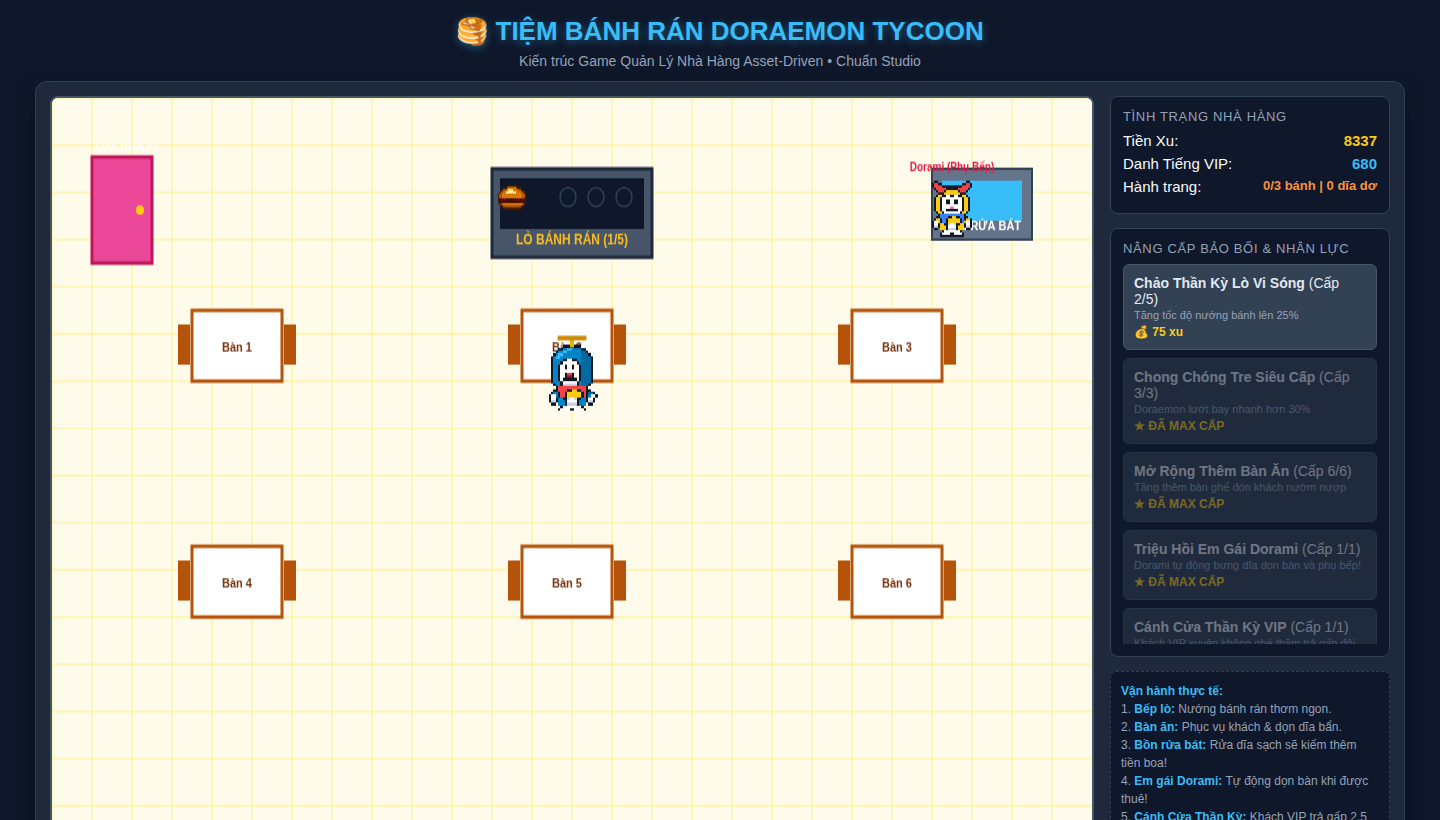
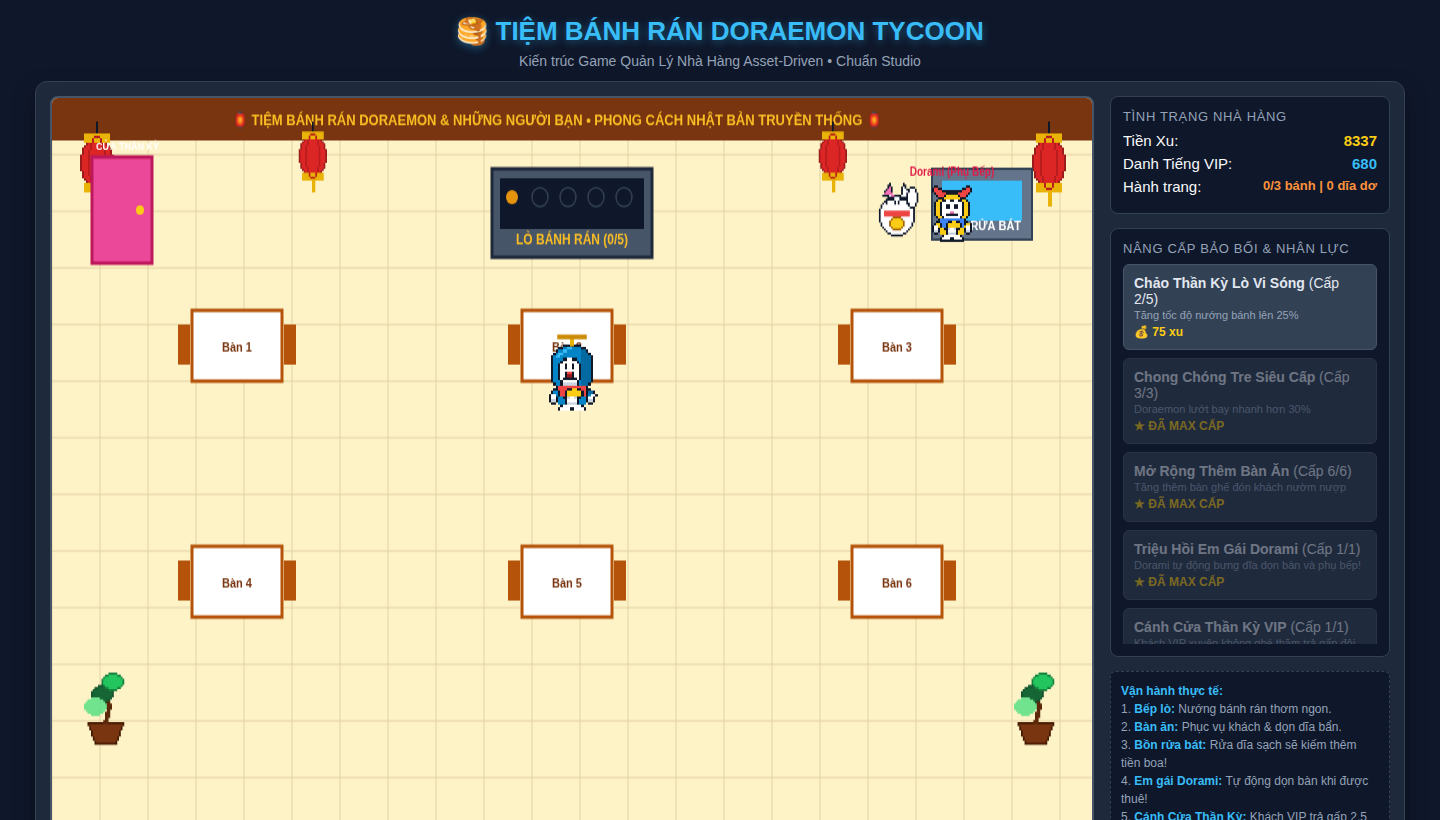
feat: add warm Japanese restaurant decor with wood header, lanterns, bonsai plants and lucky cat

diff --git a/js/game.js b/js/game.js
@@ -225,24 +225,53 @@ class Game {
   render() {
     this.ctx.clearRect(0, 0, this.canvas.width, this.canvas.height);
 
-    // Nền sàn gỗ nhà hàng cao cấp
-    this.ctx.fillStyle = "#fffbeb";
+    // Nền sàn gỗ ấm cúng phong cách tiệm Nhật truyền thống (Tatami Wood Flooring)
+    this.ctx.fillStyle = "#fef3c7";
     this.ctx.fillRect(0, 0, this.canvas.width, this.canvas.height);
 
-    // Kẻ vạch ô gạch Nhật Bản
-    this.ctx.strokeStyle = "#fef08a";
+    // Kẻ chỉ thảm Tatami / Gỗ cao cấp
+    this.ctx.strokeStyle = "#e2d2a4";
     this.ctx.lineWidth = 1;
-    for (let x = 0; x < this.canvas.width; x += 40) {
+    for (let x = 0; x < this.canvas.width; x += 48) {
       this.ctx.beginPath();
       this.ctx.moveTo(x, 0);
       this.ctx.lineTo(x, this.canvas.height);
       this.ctx.stroke();
     }
-    for (let y = 0; y < this.canvas.height; y += 40) {
+    for (let y = 0; y < this.canvas.height; y += 48) {
       this.ctx.beginPath();
       this.ctx.moveTo(0, y);
       this.ctx.lineTo(this.canvas.width, y);
       this.ctx.stroke();
+    }
+
+    // Tường ốp gỗ trên cùng
+    this.ctx.fillStyle = "#78350f";
+    this.ctx.fillRect(0, 0, this.canvas.width, 36);
+    this.ctx.fillStyle = "#fbbf24";
+    this.ctx.font = "bold 13px sans-serif";
+    this.ctx.fillText("🏮 TIỆM BÁNH RÁN DORAEMON & NHỮNG NGƯỜI BẠN • PHONG CÁCH NHẬT BẢN TRUYỀN THỐNG 🏮", 180, 23);
+
+    // ĐÈN LỒNG ĐỎ TREO 2 BÊN TƯỜNG (Lantern decor)
+    if (window.assetLoader.hasImage('decor_lantern')) {
+      const lantern = window.assetLoader.getImage('decor_lantern');
+      this.ctx.drawImage(lantern, 20, 20, 48, 72);
+      this.ctx.drawImage(lantern, this.canvas.width - 68, 20, 48, 72);
+      this.ctx.drawImage(lantern, 240, 20, 40, 60);
+      this.ctx.drawImage(lantern, this.canvas.width - 280, 20, 40, 60);
+    }
+
+    // CHẬU CÂY BONSAI TRANG TRÍ (Decor plants ở 2 góc tiệm)
+    if (window.assetLoader.hasImage('decor_bonsai')) {
+      const bonsai = window.assetLoader.getImage('decor_bonsai');
+      this.ctx.drawImage(bonsai, 25, 480, 56, 70);
+      this.ctx.drawImage(bonsai, this.canvas.width - 85, 480, 56, 70);
+    }
+
+    // MÈO THẦN TÀI MANEKI-NEKO TRÊN QUẦY THU NGÂN / BỒN
+    if (window.assetLoader.hasImage('decor_lucky_cat')) {
+      const cat = window.assetLoader.getImage('decor_lucky_cat');
+      this.ctx.drawImage(cat, 820, 65, 48, 54);
     }
 
     // Cánh Cửa Thần Kỳ VIP (Nếu có nâng cấp)

diff --git a/js/assetLoader.js b/js/assetLoader.js
@@ -26,6 +26,9 @@ class AssetLoader {
     this.loadImage('dorami', 'assets/sprites/dorami.png');
     this.loadImage('dorayaki', 'assets/sprites/dorayaki.png');
     this.loadImage('dirty_dish', 'assets/sprites/dirty_dish.png');
+    this.loadImage('decor_bonsai', 'assets/sprites/decor_bonsai.png');
+    this.loadImage('decor_lantern', 'assets/sprites/decor_lantern.png');
+    this.loadImage('decor_lucky_cat', 'assets/sprites/decor_lucky_cat.png');
     this.loadImage('customer_1', 'assets/sprites/customer_1.png');
     this.loadImage('customer_2', 'assets/sprites/customer_2.png');
     this.loadImage('customer_3', 'assets/sprites/customer_3.png');

diff --git a/generate_decor_assets.py b/generate_decor_assets.py
@@ -1,0 +1,63 @@
+from PIL import Image, ImageDraw
+import os
+
+ASSETS_DIR = "/home/hatch/.gemini/antigravity-cli/scratch/dorayaki-restaurant/assets/sprites"
+os.makedirs(ASSETS_DIR, exist_ok=True)
+
+# 1. Chậu cây Bonsai Nhật Bản (32x40)
+def make_bonsai():
+    img = Image.new("RGBA", (32, 40), (0, 0, 0, 0))
+    d = ImageDraw.Draw(img)
+    # Pot (Chậu gốm nung nâu)
+    d.polygon([(6, 28), (26, 28), (22, 38), (10, 38)], fill=(120, 53, 15, 255), outline=(69, 26, 3, 255))
+    # Trunk (Thân cây uốn lượn)
+    d.line([(16, 28), (18, 20), (12, 14), (16, 8)], fill=(92, 40, 10, 255), width=3)
+    # Leaves (Tán lá xanh nhiều tầng có highlight)
+    d.ellipse([8, 10, 20, 18], fill=(22, 101, 52, 255), outline=(20, 83, 45, 255))
+    d.ellipse([14, 4, 26, 12], fill=(34, 197, 94, 255), outline=(21, 128, 61, 255))
+    d.ellipse([4, 16, 16, 24], fill=(74, 222, 128, 200))
+    img.resize((64, 80), Image.NEAREST).save(os.path.join(ASSETS_DIR, "decor_bonsai.png"))
+    print("Generated decor_bonsai.png")
+
+# 2. Đèn lồng đỏ may mắn (Red Lantern - 24x36)
+def make_lantern():
+    img = Image.new("RGBA", (24, 36), (0, 0, 0, 0))
+    d = ImageDraw.Draw(img)
+    # Dây treo
+    d.line([(12, 0), (12, 6)], fill=(15, 23, 42, 255), width=1)
+    # Thân lồng đèn đỏ
+    d.ellipse([4, 6, 20, 28], fill=(220, 38, 38, 255), outline=(153, 27, 27, 255), width=1)
+    # Nẹp vàng trên dưới
+    d.rectangle([6, 5, 18, 8], fill=(234, 179, 8, 255))
+    d.rectangle([6, 26, 18, 29], fill=(234, 179, 8, 255))
+    # Sọc lồng đèn
+    d.ellipse([8, 6, 16, 28], fill=None, outline=(185, 28, 28, 255), width=1)
+    # Tua rua vàng phía dưới
+    d.line([(12, 29), (12, 35)], fill=(234, 179, 8, 255), width=2)
+    img.resize((48, 72), Image.NEAREST).save(os.path.join(ASSETS_DIR, "decor_lantern.png"))
+    print("Generated decor_lantern.png")
+
+# 3. Mèo thần tài Maneki-neko vẫy tay (28x32)
+def make_lucky_cat():
+    img = Image.new("RGBA", (28, 32), (0, 0, 0, 0))
+    d = ImageDraw.Draw(img)
+    # Body
+    d.ellipse([4, 10, 24, 30], fill=(255, 255, 255, 255), outline=(15, 23, 42, 255), width=1)
+    # Ears
+    d.polygon([(6, 10), (10, 4), (12, 11)], fill=(255, 255, 255, 255), outline=(15, 23, 42, 255))
+    d.polygon([(16, 11), (18, 4), (22, 10)], fill=(255, 255, 255, 255), outline=(15, 23, 42, 255))
+    d.polygon([(7, 9), (10, 6), (11, 10)], fill=(244, 114, 182, 255))
+    # Red collar & Coin
+    d.rectangle([7, 18, 21, 20], fill=(239, 68, 68, 255))
+    d.ellipse([10, 21, 18, 27], fill=(250, 204, 21, 255), outline=(161, 98, 7, 255))
+    # Paws (Vẫy tay phải)
+    d.ellipse([20, 6, 26, 16], fill=(255, 255, 255, 255), outline=(15, 23, 42, 255), width=1)
+    # Face
+    d.arc([8, 12, 13, 16], 180, 360, fill=(15, 23, 42, 255), width=1)
+    d.arc([15, 12, 20, 16], 180, 360, fill=(15, 23, 42, 255), width=1)
+    img.resize((56, 64), Image.NEAREST).save(os.path.join(ASSETS_DIR, "decor_lucky_cat.png"))
+    print("Generated decor_lucky_cat.png")
+
+make_bonsai()
+make_lantern()
+make_lucky_cat()
